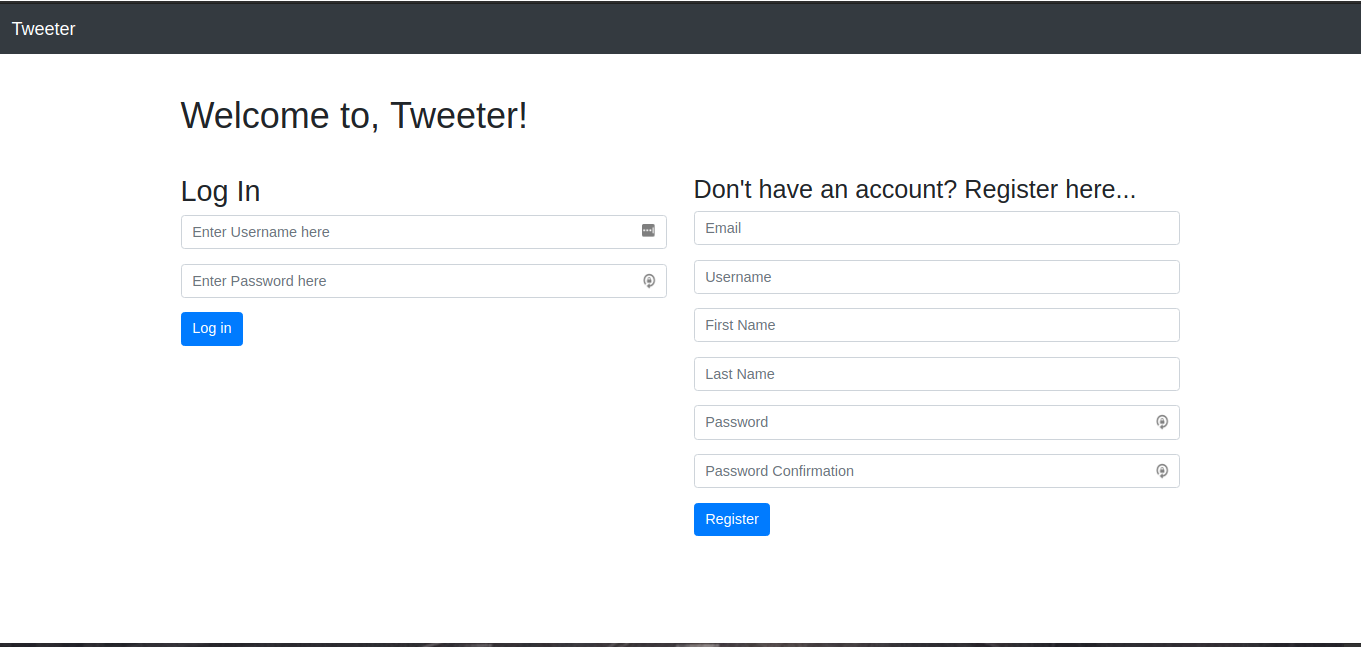
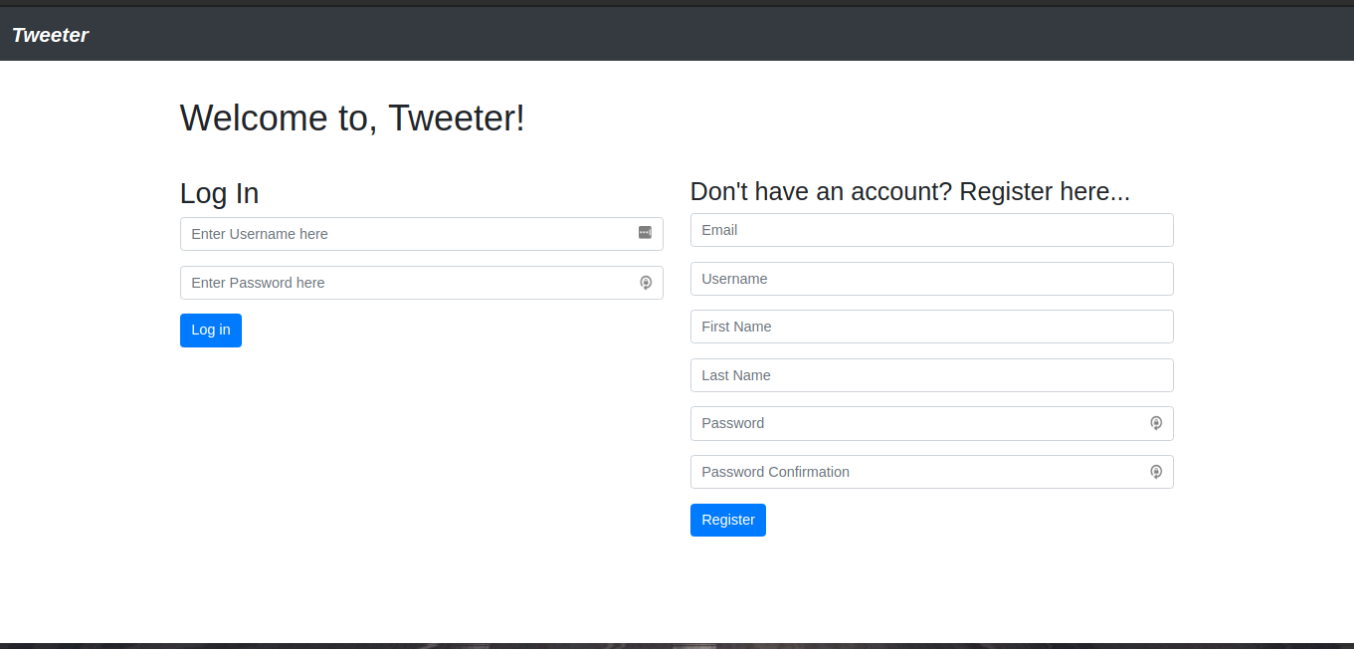
Add all-tweets view and modify styles and update README

diff --git a/tweeter/templates/base.html b/tweeter/templates/base.html
@@ -11,25 +11,35 @@
 <body>
     <body style="padding-top: 100px;">
     <nav class="navbar navbar-expand-md navbar-dark bg-dark fixed-top">
-        <a class="navbar-brand" href="/">Tweeter</a>
+        <a class="navbar-brand font-weight-bold font-italic"
+           style="font-size: 23px !important" href="/">
+            Tweeter
+        </a>
         <button class="navbar-toggler" type="button" data-toggle="collapse" data-target="#myNavbar" aria-controls="myNavbar" aria-expanded="false" aria-label="Toggle navigation on Mobile">
             <span class="navbar-toggler-icon"></span>
         </button>
 
         <div class="collapse navbar-collapse" id="myNavbar">
-            <ul class="navbar-nav mr-auto">
-                {% if request.user.is_authenticated %}
-                    <li class="nav-item">
+           {% if request.user.is_authenticated %}
+                <ul class="navbar-nav mr-auto">
+                    <li class="nav-item px-4 font-weight-bold">
                         <a class="nav-link" href="/">Home</a>
                     </li>
-                    <li class="nav-item">
+                    <li class="nav-item font-weight-bold">
                         <a class="nav-link" href="/">Timeline</a>
                     </li>
+                    <li class="nav-item px-3 font-weight-bold">
+                        <a class="nav-link" href="/alltweets">All Tweets</a>
+                    </li>
+
+                </ul>
+
+                <ul class="nav navbar-nav navbar-right font-weight-bold">
                     <li class="nav-item">
                         <a class="nav-link" href="/logout">Log out</a>
                     </li>
-              {% endif %}
-            </ul>
+                </ul>
+          {% endif %}
         </div>
     </nav>
 

diff --git a/tweeter/templates/alltweets.html b/tweeter/templates/alltweets.html
@@ -1,0 +1,25 @@
+{% extends 'templates/base.html' %}
+
+{% block content %}
+<div class="row">
+    <div class="col-9">
+        <h1 class="text-center font-italic"  style="text-decoration:underline;">
+            Tweets Across the Globe
+        </h1>
+        {% if tweets.all %}
+            {% for tweet in tweets.all %}
+                <div class="card" style="margin-bottom: 20px;">
+                    <div class="card-body">
+                        <h5 class="card-title">@{{ tweet.user.username }}</h5>
+                        <p class="card-text"><b>{{ tweet.created_at }}</b> - {{ tweet.tweet }}</p>
+                    </div>
+                </div>
+            {% endfor %}
+
+        {% else %}
+            <p>There are no tweets on the platform yet. Be the first one to tweet!.</p>
+        {% endif %}
+    </div>
+
+</div>
+{% endblock %}

diff --git a/tweeter/templates/userprofile.html b/tweeter/templates/userprofile.html
@@ -3,7 +3,7 @@
 {% block content %}
 <div class="row">
     <div class="col-9">
-        <h2>@{{ user.username }}'s timeline..</h2>
+        <h2 class="text-center font-italic">@{{ user.username }}'s timeline</h2>
         {% if user.tweets.all %}
             {% for tweet in user.tweets.all %}
                 <div class="card" style="margin-bottom: 20px;">

diff --git a/tweeter/userprofile/views.py b/tweeter/userprofile/views.py
@@ -5,6 +5,7 @@ from django.contrib.auth import login, authenticate, logout
 from django.contrib.auth.models import User
 
 from tweet.forms import AddTweetForm
+from tweet.models import Tweet
 from userprofile.forms import LogInForm, RegistrationForm
 
 
@@ -42,6 +43,13 @@ def authenticateuser(request):
 def signout(request):
     logout(request)
     return redirect('/')
+
+
+def alltweets(request):
+    if request.user.is_authenticated:
+        tweets = Tweet.objects.all()
+        print("tweets are : ", tweets)
+        return render(request, 'alltweets.html', {'tweets': tweets})
 
 
 def timeline(request, username):

diff --git a/tweeter/tweeter/urls.py b/tweeter/tweeter/urls.py
@@ -16,12 +16,13 @@ Including another URLconf
 from django.contrib import admin
 from django.urls import path
 
-from userprofile.views import authenticateuser, timeline, signout
+from userprofile.views import authenticateuser, timeline, signout, alltweets
 
 
 urlpatterns = [
     # path('admin/', admin.site.urls),
     path('', authenticateuser, name='authenticate'),
     path('logout/', signout, name='logout'),
+    path('alltweets/', alltweets, name='alltweets'),
     path('<str:username>/', timeline, name='timeline'),
 ]

diff --git a/README.md b/README.md
@@ -8,18 +8,21 @@
 ###### Login & Registration Page
 ![Login & Registration Page](readme_images/login_registration.png)
 
-###### Tweeter timeline
-![Tweeter timeline](readme_images/tweet_timeline2.png)
+###### Tweeter timeline of Phoebe (logged in)
+![Tweeter timeline](readme_images/user_tweets_timeline.png)
+
+###### View Tweets Across the Globe
+![All Tweets](readme_images/alltweets.png)
 
 
 ## Features
 - Login using Django Authentication.
 - Signup to create a user.
-- User can post a tweet. (140 char limit).
-- User can see the timeline of tweets created by them.
+- Logged in user can post a tweet. (140 char limit).
+- Logged in user can see the timeline of tweets created by them.
 - Logged in user can see tweets from other users
     - Example: To see `joey`'s timeline, go to `localhost:8000/joey`
-
+- Logged in user can see the tweets across the globe.
 
 ## For Developers
 
